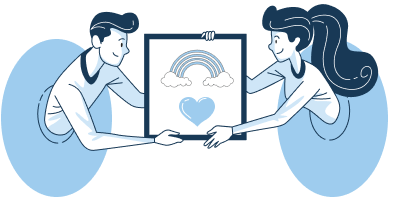
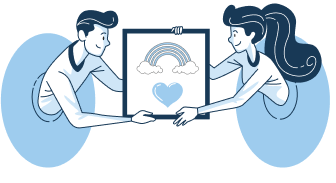
Make purpose and values image smaller

diff --git a/_scss/about/_values.scss b/_scss/about/_values.scss
@@ -19,7 +19,7 @@
   text-align: center;
 
   img {
-    width: 100%;
+    width: auto;
   }
 }
 
@@ -35,22 +35,6 @@
   }
 }
 
-@media(min-width: $width-md) {
-  .values-img {
-    img {
-      width: auto;
-    }
-  }
-}
-
-@media(min-width: $width-lg) {
-  .values-img {
-    img {
-      width: 100%;
-    }
-  }
-}
-
 @media(min-width: $width-xl) {
   .values-list {
     @include decorative-dots;
@@ -60,12 +44,6 @@
       right: -75px;
       transform: rotate(0.25turn);
       background-image: url("../img/case-studies/shared/bg-pattern-triangle.png"); 
-    }
-  }
-
-  .values-img {
-    img {
-      width: auto;
     }
   }
 }

diff --git a/_scss/about/_purpose.scss b/_scss/about/_purpose.scss
@@ -20,7 +20,7 @@
   text-align: center;
 
   img {
-    width: 100%;
+    width: auto;
   }
 }
 
@@ -36,22 +36,6 @@
   }
 }
 
-@media(min-width: $width-md) {
-  .purpose-img {
-    img {
-      width: auto;
-    }
-  }
-}
-
-@media(min-width: $width-lg) {
-  .purpose-img {
-    img {
-      width: 100%;
-    }
-  }
-}
-
 @media(min-width: $width-xl) {
   .purpose-list {
     @include decorative-dots;
@@ -60,12 +44,6 @@
       bottom: -60px;
       left: -110px;
       background-image: url("../img/case-studies/shared/bg-pattern-square.png"); 
-    }
-  }
-
-  .purpose-img {
-    img {
-      width: auto;
     }
   }
 }
